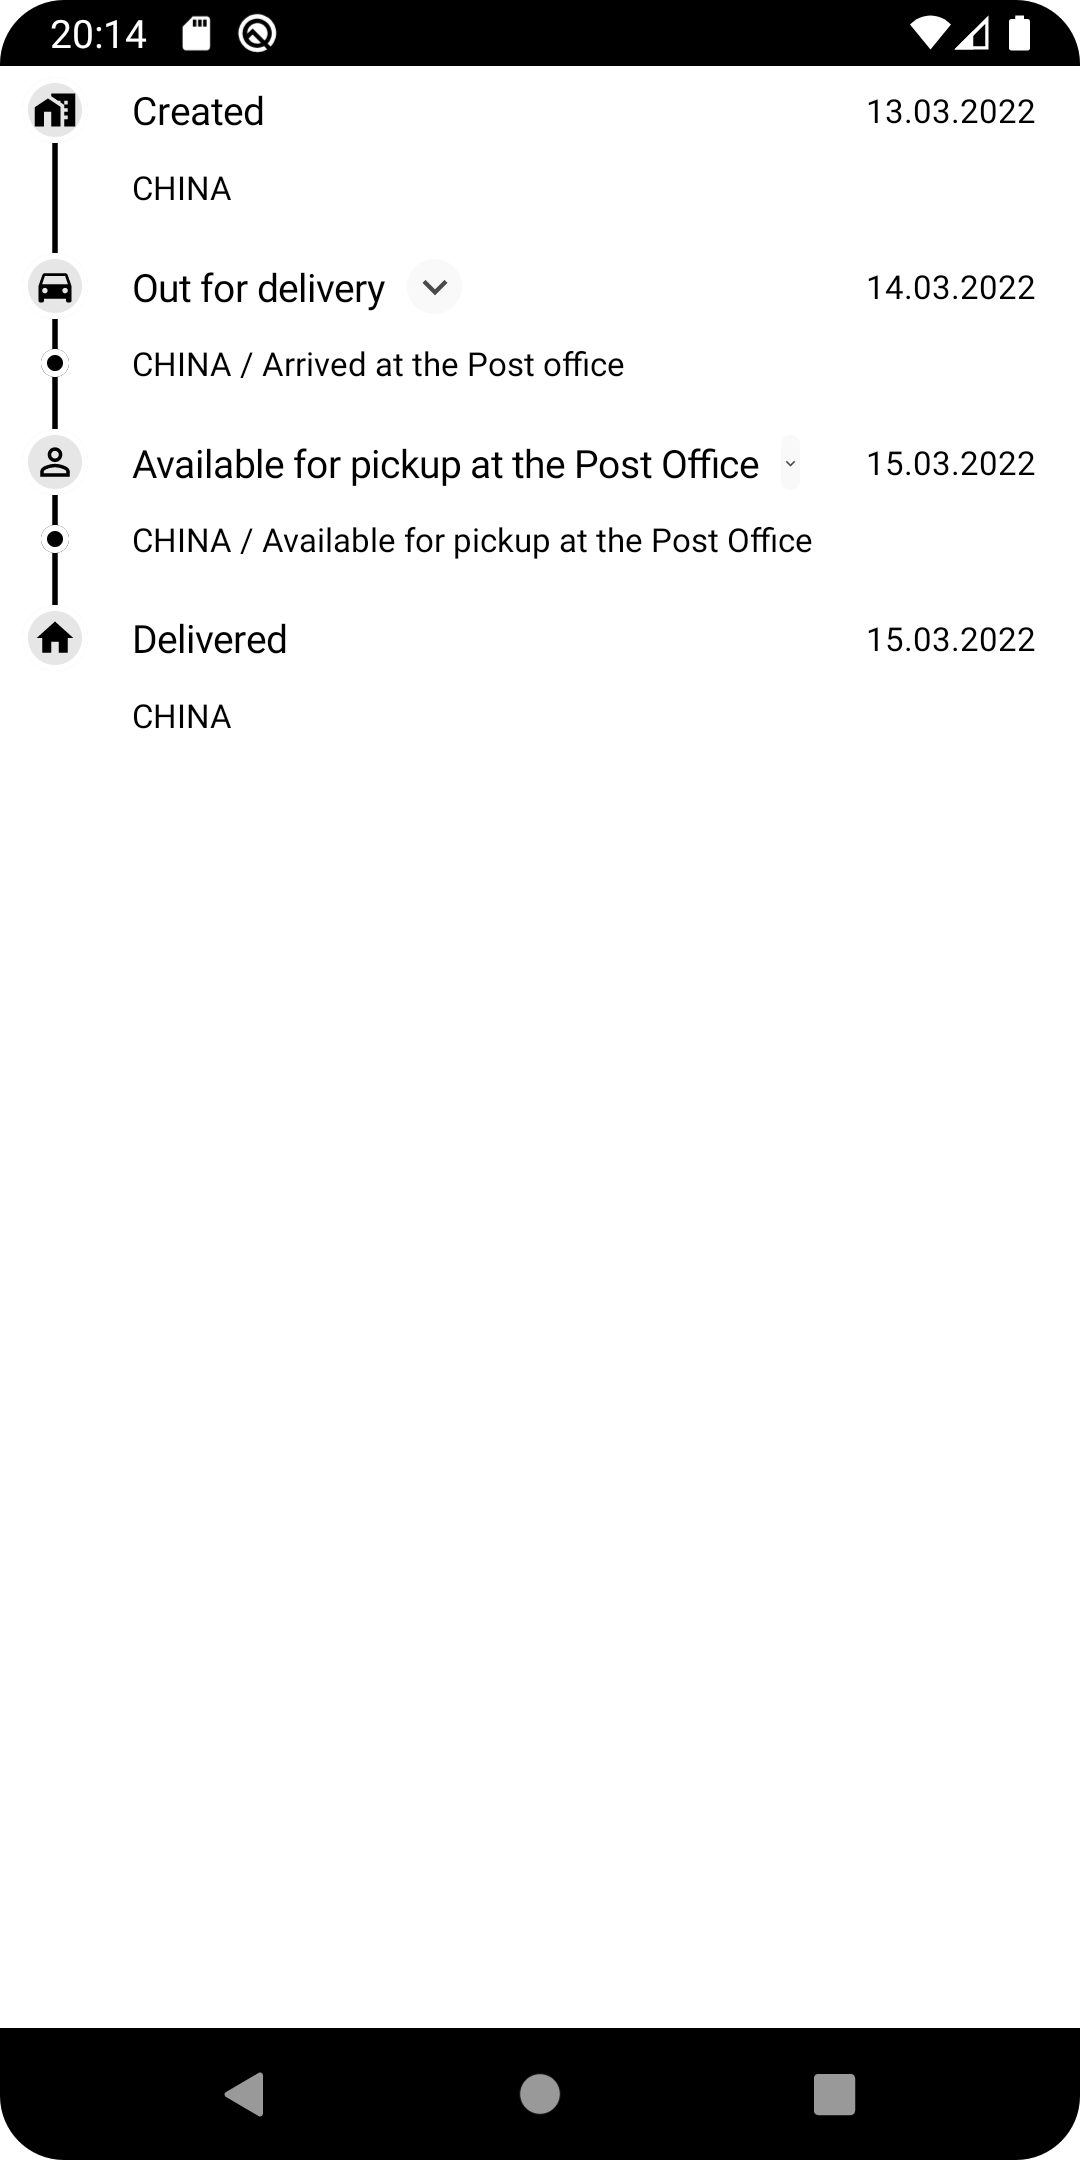
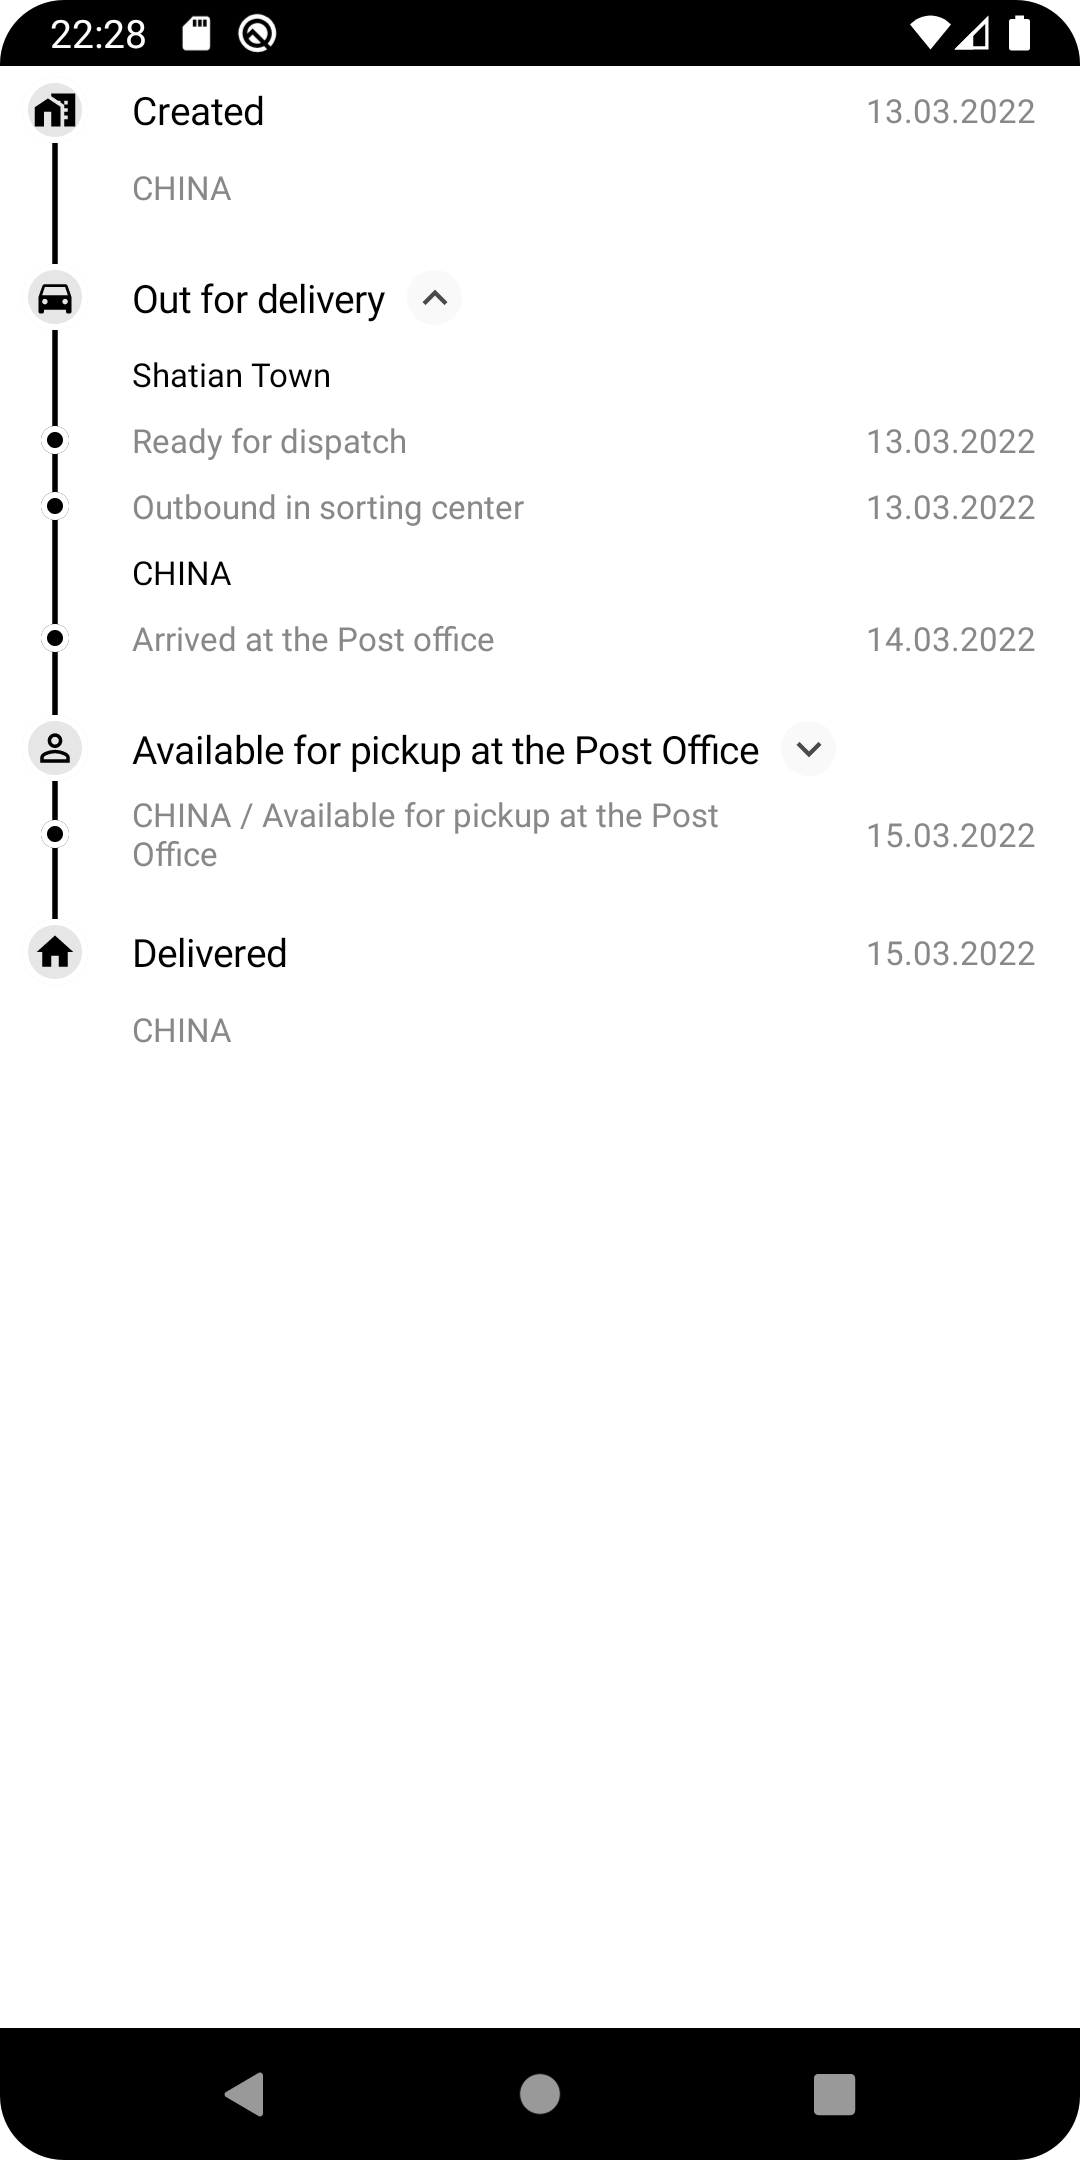
Changed README.md Fixed errors

diff --git a/stepview/src/main/java/com/customviews/stepview/StepList.kt b/stepview/src/main/java/com/customviews/stepview/StepList.kt
@@ -145,10 +145,11 @@ private fun StepItem(
                 }
             }
 
+
             Row(
                 modifier = Modifier.weight(1f),
-                horizontalArrangement = Arrangement.spacedBy(8.dp),
-                verticalAlignment = Alignment.CenterVertically
+                verticalAlignment = Alignment.CenterVertically,
+                horizontalArrangement = Arrangement.spacedBy(8.dp)
             ) {
                 Text(
                     text = item.name,
@@ -156,10 +157,11 @@ private fun StepItem(
                     color = colors.titleColor().value,
                     modifier = Modifier.wrapContentWidth()
                 )
+
                 if (item.subSteps.isNotEmpty()) {
                     Box(
                         modifier = Modifier
-                            .size(20.dp)
+                            .requiredSize(20.dp)
                             .background(Color.Gray.copy(0.05f), RoundedCornerShape(100))
                             .clip(RoundedCornerShape(100))
                             .clickable {
@@ -171,7 +173,7 @@ private fun StepItem(
                             painter = painterResource(id = R.drawable.ic_arrow_down),
                             contentDescription = "",
                             modifier = Modifier
-                                .size(18.dp)
+                                .requiredSize(18.dp)
                                 .rotate(angle),
                             tint = Color.Black.copy(0.7f)
                         )
@@ -179,7 +181,7 @@ private fun StepItem(
                 }
             }
 
-            if (!isExpanded) {
+            if (item.subSteps.isEmpty()) {
                 Text(
                     text = item.mark,
                     style = itemMarkStyle,
@@ -304,19 +306,37 @@ private fun StepItem(
                             color = colors.descriptionColor().value,
                             modifier = Modifier.weight(1f),
                         )
+
+                        Text(
+                            text = item.mark,
+                            style = itemMarkStyle,
+                            color = colors.markColor().value,
+                            modifier = Modifier.padding(horizontal = 16.dp)
+                        )
                     } else {
                         Text(
                             text = item.description,
                             style = itemDescriptionStyle,
-                            modifier = Modifier.padding(start = 48.dp, top = 4.dp, bottom = 4.dp),
+                            modifier = Modifier
+                                .padding(start = 48.dp, top = 4.dp, bottom = 4.dp)
+                                .weight(1f),
                             color = colors.descriptionColor().value,
                         )
+
+                        if(item.subSteps.isNotEmpty()) {
+                            Text(
+                                text = item.mark,
+                                style = itemMarkStyle,
+                                color = colors.markColor().value,
+                                modifier = Modifier.padding(horizontal = 16.dp)
+                            )
+                        }
                     }
                 }
             }
         }
 
-        Spacer(modifier = Modifier.height(8.dp))
+        Spacer(modifier = Modifier.height(12.dp))
     }
 }
 
@@ -423,17 +443,17 @@ object StepListDefault {
 
     @Composable
     fun stepListColors(
-        contentTitleColor: Color = Color.Black,
-        contentDescriptionColor: Color = Color.Black,
-        contentMarkColor: Color = Color.Black,
+        titleColor: Color = Color.Black,
+        descriptionColor: Color = Color.Gray,
+        markColor: Color = Color.Gray,
         stepIndicatorColor: Color = Color.Black,
         stepIndicatorBackgroundColor: Color = Color.Black.changeLightness(0.9f),
         stepIndicatorLineColor: Color = Color.Black,
         stepIndicatorBorderColor: Color = Color.White
     ): StepListColors = DefaultStepListColors(
-        titleColor = contentTitleColor,
-        descriptionColor = contentDescriptionColor,
-        markColor = contentMarkColor,
+        titleColor = titleColor,
+        descriptionColor = descriptionColor,
+        markColor = markColor,
         stepIndicatorColor = stepIndicatorColor,
         stepIndicatorBackgroundColor = stepIndicatorBackgroundColor,
         stepIndicatorLineColor = stepIndicatorLineColor,

diff --git a/app/src/main/java/com/customviews/sample/MainActivity.kt b/app/src/main/java/com/customviews/sample/MainActivity.kt
@@ -17,9 +17,12 @@ import androidx.compose.ui.unit.sp
 import com.customviews.app.R
 import com.customviews.sample.ui.theme.CustomViewsTheme
 import com.customviews.stepview.StepList
+import com.customviews.stepview.StepListColors
+import com.customviews.stepview.StepListDefault
 import com.customviews.stepview.models.StepIndicator
 import com.customviews.stepview.models.StepItem
 import com.customviews.stepview.models.SubStepItem
+import com.customviews.stepview.utils.changeLightness
 
 class MainActivity : ComponentActivity() {
     override fun onCreate(savedInstanceState: Bundle?) {
@@ -175,7 +178,11 @@ fun List() {
             ),
             itemTitleStyle = TextStyle.Default,
             itemDescriptionStyle = TextStyle(fontSize = 12.sp),
-            itemMarkStyle = TextStyle(fontSize = 12.sp)
+            itemMarkStyle = TextStyle(fontSize = 12.sp),
+            colors = StepListDefault.stepListColors(
+                descriptionColor = Color.Gray,
+
+            )
         )*/
     }
 }

diff --git a/stepview/src/main/java/com/customviews/stepview/models/StepItem.kt b/stepview/src/main/java/com/customviews/stepview/models/StepItem.kt
@@ -1,6 +1,7 @@
 package com.customviews.stepview.models
 
 import androidx.annotation.DrawableRes
+import androidx.compose.ui.Alignment
 import androidx.compose.ui.graphics.Color
 
 data class StepItem(
@@ -41,3 +42,8 @@ sealed class StepIndicator(
         override val borderColor: Color = Color.Unspecified
     ) : StepIndicator(contentColor, backgroundColor, lineColor, borderColor)
 }
+
+data class StepMark(
+    val value: String,
+    val alignment: Alignment.Vertical
+)

diff --git a/README.md b/README.md
@@ -8,7 +8,7 @@
 
 ## Examples
 
-![Basic color scheme](docs/steplist/Basic.png)
+![Basic color scheme](docs/steplist/Basic.png | width=256)
 
 ## Docs
 
